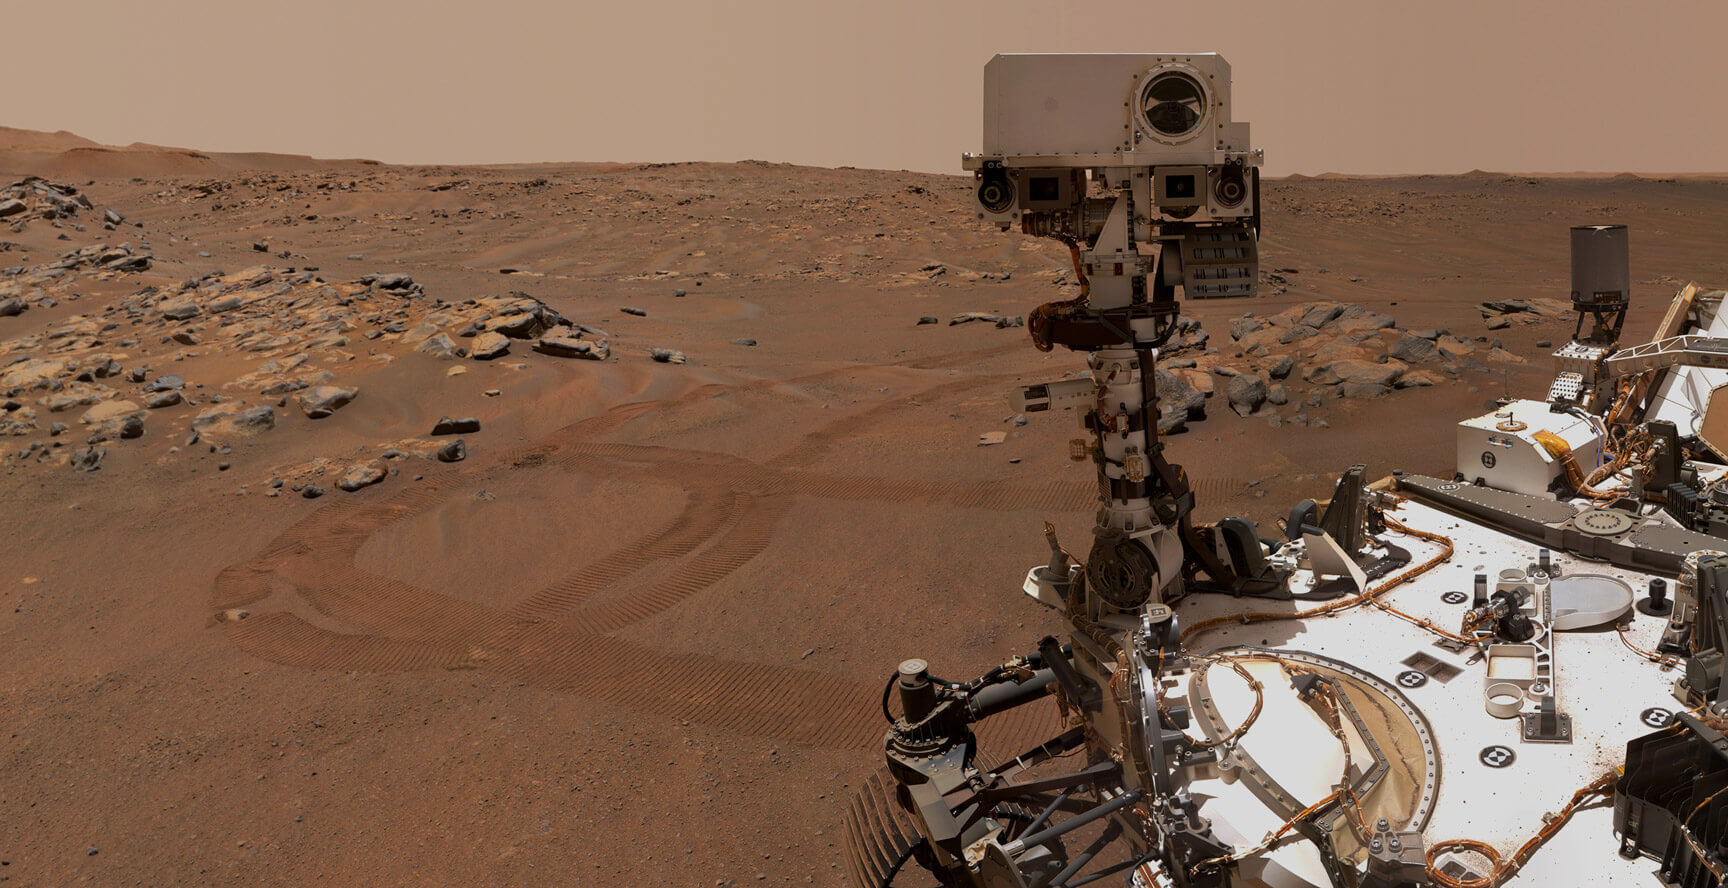
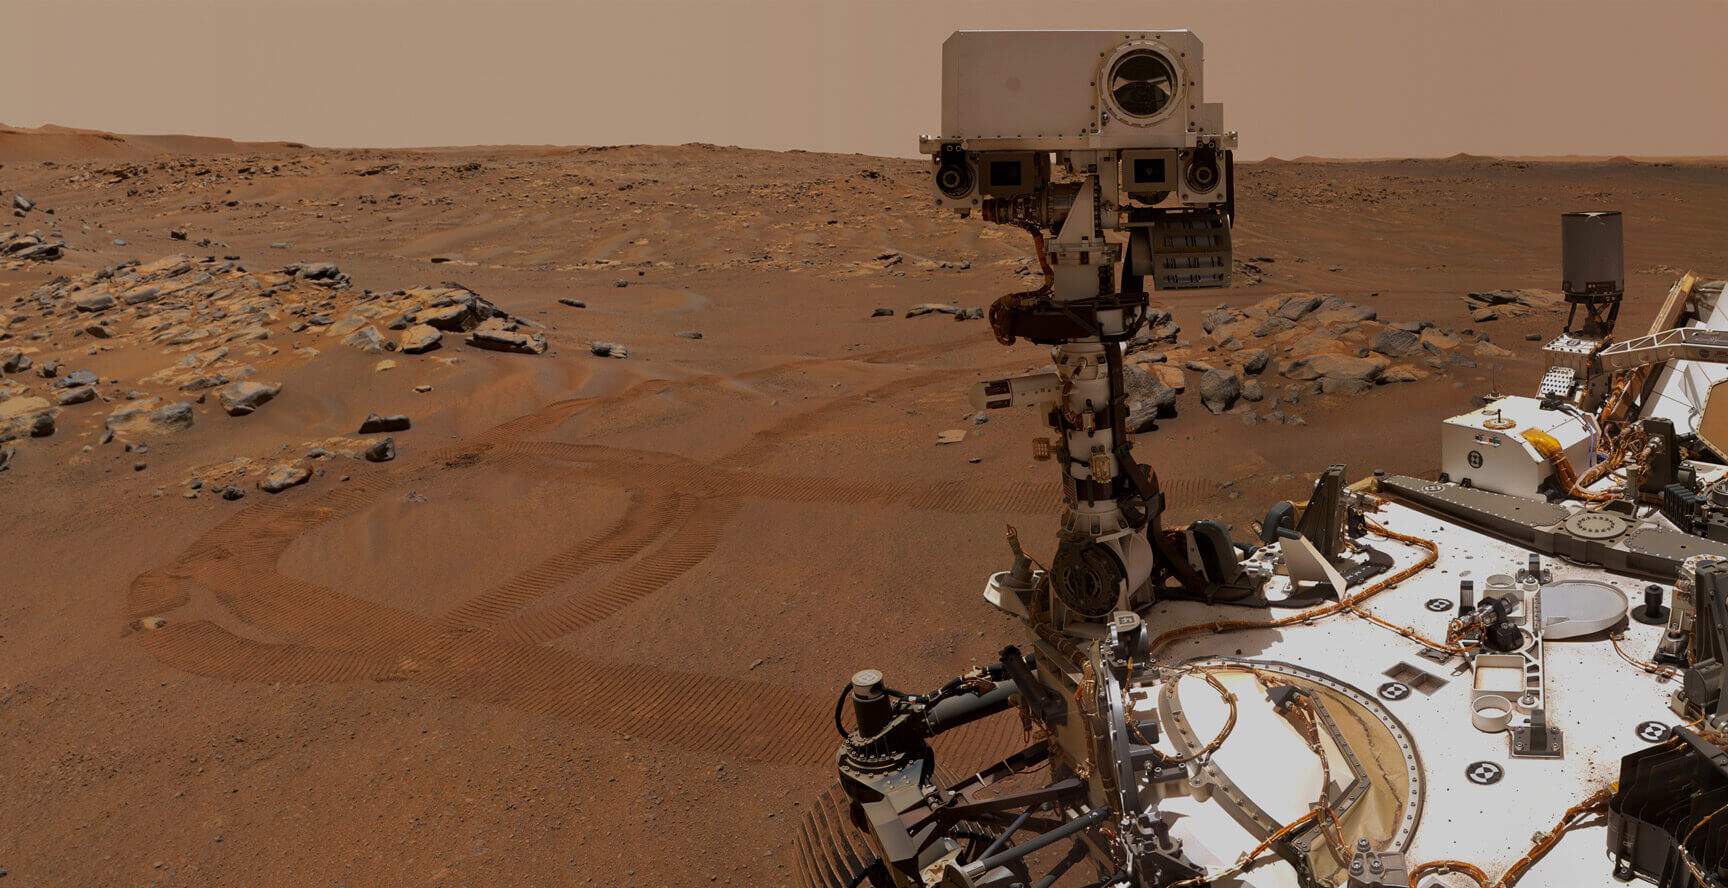
FIX : pinned animation, apparition au scroll

diff --git a/workflow/src/mars.html b/workflow/src/mars.html
@@ -82,7 +82,7 @@
 				<div class="container">
 					<div class="test1">
 						<svg class="svg" xmlns="http://www.w3.org/2000/svg" viewBox="0 0 1000 1000">
-							<image transform="matrix(1.25 0 0 1.25 250 250)" height="40%" width="40%" xlink:href="assets/images/mars.png"/>
+							<image transform="matrix(1.25 0 0 1.25 375 375)" height="20%" width="20%" xlink:href="assets/images/mars.png"/>
 							<g class="deimos">
 								<circle class="orbit" cx="500" cy="500" r="450"/>
 								<g>
@@ -91,10 +91,10 @@
 								</g>
 							</g>
 							<g class="phobos">
-								<circle class="orbit" cx="500" cy="500" r="350"/>
+								<circle class="orbit" cx="500" cy="500" r="275"/>
 								<g>
-									<circle class="circle" cx="252.87" cy="252.87" r="13"/>
-									<circle class="moon" cx="252.87" cy="252.87" r="9"/>
+									<circle class="circle" cx="305.87" cy="305.87" r="13"/>
+									<circle class="moon" cx="305.87" cy="305.87" r="9"/>
 								</g>
 							</g>
 						</svg>
@@ -174,8 +174,8 @@
 								<ul class="list caracteristique__list">
 									<li class="caracteristique__left">
 										<h4 class="title title--small">Température</h4>
-										<div><span class="caracteristique__number" data-number="-143">-143</span> à <span class="caracteristique__number" data-number="20">20</span></div>
-										<span class="caracteristique__unit">degrés Celsius</span>
+										<span class="caracteristique__number" data-number="-63">-63</span>
+										<span class="caracteristique__unit">degrés</span>
 									</li>
 									<li class="caracteristique__center">
 										<img src="assets/images/temperature.svg" alt="température">
@@ -183,8 +183,8 @@
 									</li>
 									<li class="caracteristique__right">
 										<h4 class="title title--small">Température</h4>
-										<div><span class="caracteristique__number" data-number="-89">-89</span> à <span class="caracteristique__number" data-number="58">58</span></div>
-										<span class="caracteristique__unit">degrés Celsius</span>
+										<span class="caracteristique__number" data-number="15">15</span>
+										<span class="caracteristique__unit">degrés</span>
 									</li>
 								</ul>
 								<ul class="list caracteristique__list">
@@ -207,8 +207,8 @@
 						</ul>
 						<ul class="list slider__control">
 							<li class="slider__btn"><button class="btn btn--prev"></button></li>
-            				<li class="slider__btn"><button class="btn btn--next"></button></li>
 							<li class="slider__btn"><span class="slider__counter">01</span> — 03</li>
+							<li class="slider__btn"><button class="btn btn--next"></button></li>
 						</ul>
 					</div>
 					<div class="test2">
@@ -271,10 +271,10 @@
 				</div>
 			</section>
 			<div class="lines">
-				<div class="line line-1"></div>
-				<div class="line line-2"></div>
-				<div class="line line-3"></div>
-				<div class="line line-4"></div>
+				<div class="line"></div>
+				<div class="line"></div>
+				<div class="line"></div>
+				<div class="line"></div>
 			</div>
 		</main>
 		<footer class="footer">

diff --git a/workflow/src/styles/app.scss b/workflow/src/styles/app.scss
@@ -76,19 +76,20 @@ body{
     height: 0vh;
     top: 0;
     mix-blend-mode: difference;
-    animation: line .75s ease-out forwards;
-    &-1{
+    animation: line .6s ease-out forwards;
+
+    &:nth-child(1){
       left: 20vw;
     }
-    &-2{
+    &:nth-child(2){
       left: 40vw;
       animation-delay: 0.15s;
     }
-    &-3{
+    &:nth-child(3){
       left: 60vw;
       animation-delay: 0.3s;
     }
-    &-4{
+    &:nth-child(4){
       left: 80vw;
       animation-delay: 0.45s;
     }
@@ -97,6 +98,15 @@ body{
   .section{
     overflow: hidden;
     max-width: 1920px;
+
+    &--mars{
+      background-color: $black;
+
+      .title--medium{
+        text-align: center;
+      }
+    }
+
     &--intro{
       background-color: $black;
       background-image: url("../assets/images/space.jpg");
@@ -120,10 +130,12 @@ body{
 
     &--hero{
       background-color: $black;
+      height: 200vh;
 
       .container{
         margin: 96px;
         height: calc(100vh - 192px);
+        width: calc(100vw - 192px);
       }
       
       .title--extralarge{
@@ -172,11 +184,9 @@ body{
   }
 
   &__bg{
+    margin: 0;
     width: 100%;
     object-fit: cover;
-    &--fusee{
-      height: 100%;
-    }
   }
 }
 
@@ -411,6 +421,10 @@ body{
     }
   }
 
+  .info__element{
+    margin-bottom: 24px;
+  }
+
   .pagination{
     text-align: right;
     letter-spacing: 1px;
@@ -422,12 +436,9 @@ body{
     font-weight: 600;
     color: $white;
   }
-  
-  .wrapper {
-    height: 100vh;
-  }
 
   .wrapper{
+    height: 100vh;
     width: 300%;
     display: flex;
     flex-wrap: nowrap;
@@ -512,18 +523,6 @@ body{
 
   .svg{
     height: 75vh;
-  }
-
-  .section--mars{
-    background-color: $black;
-
-    .title--medium{
-      text-align: center;
-    }
-
-    .container{
-      margin: 192px 0;
-    }
   }
 
   .deimos:hover .phobos{

diff --git a/workflow/src/scripts/app.js b/workflow/src/scripts/app.js
@@ -399,7 +399,8 @@ paragraphs.forEach( paragraph => {
     gsap.from(paragraph, {
         scrollTrigger: {
             trigger: paragraph,
-            start: "top 85%"
+            start: "top 85%",
+            markers: true
         },
         duration: 0.6,
         opacity: 0
@@ -456,26 +457,25 @@ pinIntro.from(".hidden span", {
     scrollTrigger: ".hidden span"
 });
 
-pinIntro.fromTo(".hero__hidden" , 
+pinIntro.fromTo(".hero__hidden", 
 { 
     clipPath: "polygon(0 0, 100% 0, 100% 100%, 0 100%)"
 }, 
 {
     scrollTrigger: {
         trigger: ".section--hero",
-        start: "top top",
-        end: "+=100%", 
         scrub: 0.6,
-        pin: true
+        pin: ".section--hero .container",
+        start: "top top",
+        end: "bottom bottom"
     },
     clipPath: "polygon(39% 0, 61% 0, 61% 100%, 39% 100%)"
 })
 
 gsap.to(".hero__bg--fusee", {
     scrollTrigger: {
-        trigger: ".section--hero",
-        scrub: 1.2,
-        pin: true
+        trigger: ".hero__hidden",
+        scrub: 1.2
     },
     scale: 1.2,
     transformOrigin: "30% 0"
@@ -483,19 +483,17 @@ gsap.to(".hero__bg--fusee", {
 
 gsap.to(".hero__bg--rover", {
     scrollTrigger: {
-        trigger: ".section--hero",
-        scrub: 1.2,
-        pin: true
+        trigger: ".hero__hidden",
+        scrub: 1.2
     },
     scale: 1.2,
-    transformOrigin: "135% 0"
+    transformOrigin: "100% 0"
 });
 
 gsap.to(".hero__bg--paysage", {
     scrollTrigger: {
-        trigger: ".section--hero",
-        scrub: 1.2,
-        pin: true
+        trigger: ".hero__hidden",
+        scrub: 1.2
     },
     scale: 1.2,
     transformOrigin: "10% 50%"

diff --git a/workflow/src/styles/utils/_variable.scss b/workflow/src/styles/utils/_variable.scss
@@ -25,8 +25,8 @@ $fontsizeDesktop: 1.8rem;
 $smDesktop: $fontsizeDesktop * $rapportDesktop;
 $mdDesktop: $fontsizeDesktop * $rapportDesktop * $rapportDesktop * $rapportDesktop;
 $lgDesktop: $fontsizeDesktop * $rapportDesktop * $rapportDesktop * $rapportDesktop * $rapportDesktop * $rapportDesktop;
-$xlDesktop: $fontsizeDesktop * $rapportDesktop * $rapportDesktop * $rapportDesktop * $rapportDesktop * $rapportDesktop * $rapportDesktop * $rapportDesktop;
-$xxlDesktop: $fontsizeDesktop * $rapportDesktop * $rapportDesktop * $rapportDesktop * $rapportDesktop * $rapportDesktop * $rapportDesktop * $rapportDesktop * $rapportDesktop;
+$xlDesktop: $fontsizeDesktop * $rapportDesktop * $rapportDesktop * $rapportDesktop * $rapportDesktop * $rapportDesktop * $rapportDesktop;
+$xxlDesktop: $fontsizeDesktop * $rapportDesktop * $rapportDesktop * $rapportDesktop * $rapportDesktop * $rapportDesktop * $rapportDesktop * $rapportDesktop;
 
 button{
   font-size: $fontsizeMobile;

diff --git a/workflow/src/index.html b/workflow/src/index.html
@@ -58,11 +58,11 @@
 	</header>
 	<main>
         <div class="lines">
-            <div class="line line-1"></div>
-            <div class="line line-2"></div>
-            <div class="line line-3"></div>
-            <div class="line line-4"></div>
-        </div>
+			<div class="line"></div>
+			<div class="line"></div>
+			<div class="line"></div>
+			<div class="line"></div>
+		</div>
 			<section class="section section--intro">
 				<div class="container">
 					<img class="img" src="assets/images/mars_reveal.png" alt="mars">
@@ -78,7 +78,7 @@
 							<div class="card__content">
 								<img class="card__bg" src="assets/images/index1.jpg" srcset="assets/images/index1@2x.jpg 2x" alt="mars">
 								<div class="card__body">
-									<h4 class="title title--small">L'exporation martienne</h4>
+									<h4 class="title title--small">L'exploration martienne</h4>
 								</div>
 							</div>
 						</a>

diff --git a/workflow/src/rover.html b/workflow/src/rover.html
@@ -405,10 +405,10 @@
                 </div>
             </section>
             <div class="lines">
-				<div class="line line-1"></div>
-				<div class="line line-2"></div>
-				<div class="line line-3"></div>
-				<div class="line line-4"></div>
+				<div class="line"></div>
+				<div class="line"></div>
+				<div class="line"></div>
+				<div class="line"></div>
 			</div>
 		</main>
 		<footer class="footer">

diff --git a/workflow/src/mission.html b/workflow/src/mission.html
@@ -206,10 +206,10 @@
 				</div>
 			</section>
             <div class="lines">
-				<div class="line line-1"></div>
-				<div class="line line-2"></div>
-				<div class="line line-3"></div>
-				<div class="line line-4"></div>
+				<div class="line"></div>
+				<div class="line"></div>
+				<div class="line"></div>
+				<div class="line"></div>
 			</div>
 		</main>
 		<footer class="footer">

diff --git a/workflow/src/styles/utils/_grid.scss b/workflow/src/styles/utils/_grid.scss
@@ -204,10 +204,8 @@
 
 .test1{
     grid-column: 1 / 3;
-
-    .svg{
-      float: right;
-    }
+    position: absolute;
+    right: 0;
   }
 
   .test2{
